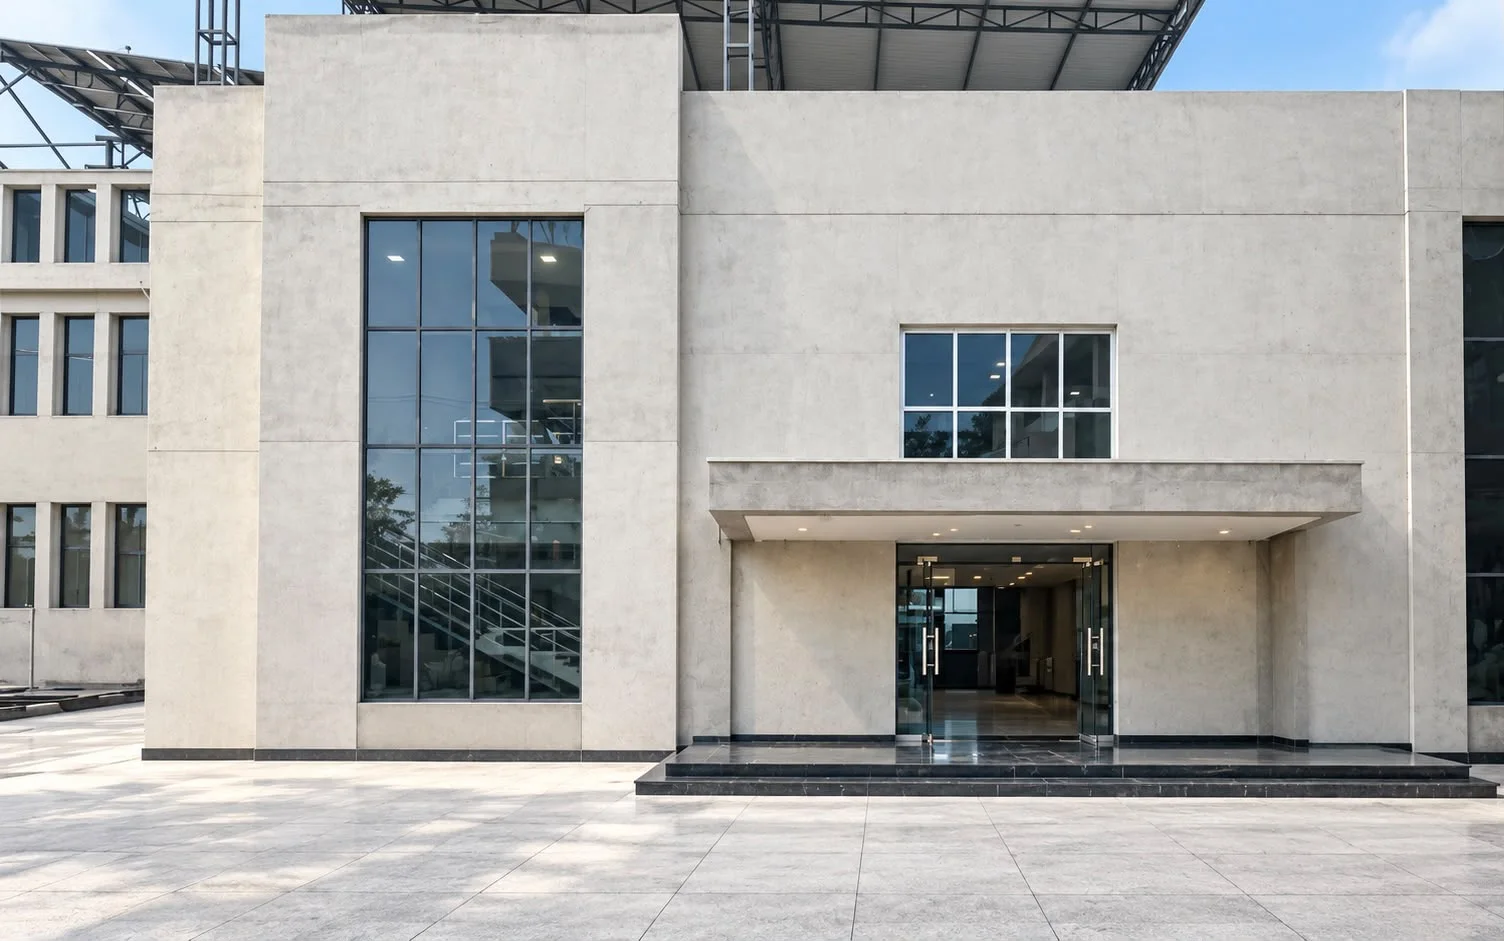
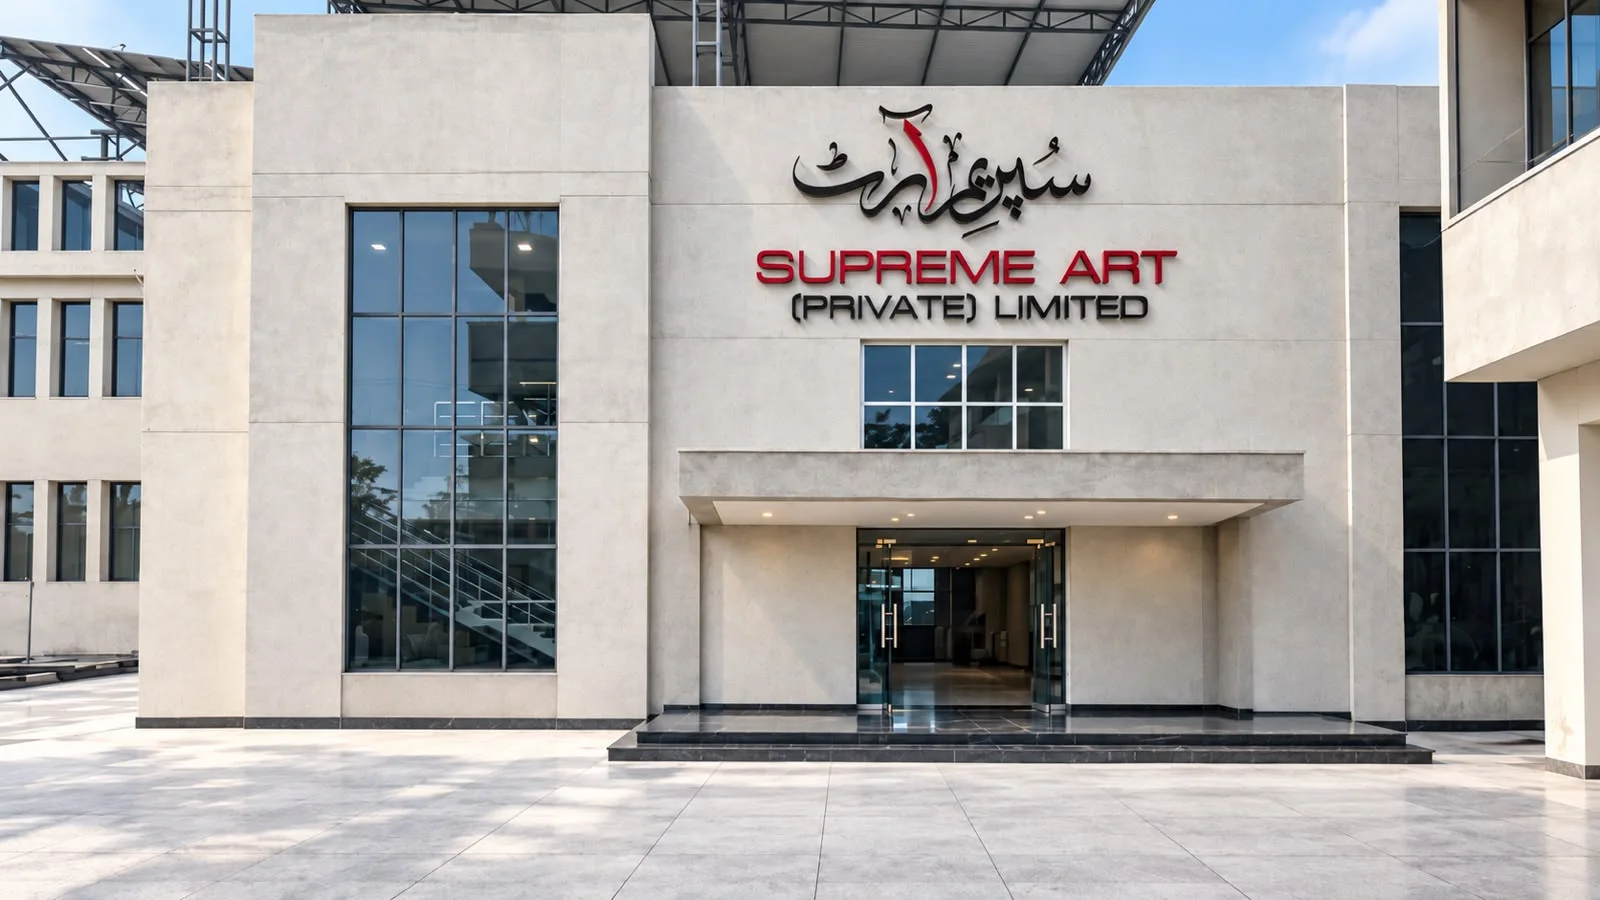
Home hero opens on the signed building: the name lifts off the facade, then the camera dives through the window beneath it; SM-74 hall photo for Who we are

diff --git a/static/script.js b/static/script.js
@@ -235,7 +235,9 @@ document.querySelectorAll('[data-count]').forEach((el) => countIO.observe(el));
   const scenes = [...story.querySelectorAll('[data-home-stage]')];
   const dots = [...story.querySelectorAll('.home-story__progress span')];
   const header = document.querySelector('.site-header');
+  const sticky = story.querySelector('.home-story__sticky');
   const building = story.querySelector('.home-story__building');
+  const logo = story.querySelector('.home-story__full-logo');
   const hall = story.querySelector('.home-story__shot--hall');
   const press = story.querySelector('.home-story__shot--press');
   const still = window.matchMedia('(prefers-reduced-motion: reduce)');
@@ -248,23 +250,48 @@ document.querySelectorAll('[data-count]').forEach((el) => countIO.observe(el));
   const span = (value, from, to) => clamp01((value - from) / (to - from));
   const ease = t => t < .5 ? 4 * t * t * t : 1 - Math.pow(-2 * t + 2, 3) / 2;
 
-  // Scroll timeline: hold on the building, fly through its door (.07–.44), hold in the press hall,
-  // then glide the camera from the front of the hall round to the Speedmaster's side (.56–.9) and hold.
+  // Where things are in the building photo, as fractions of it: the signage on the facade (and its width),
+  // and the window under it that the camera dives through. The photo is drawn to cover the frame, anchored
+  // on the window (object-position in styles.css), so these map to the screen the same way at any size.
+  const SIGN = { x: .6, y: .225, w: .27 };
+  const WINDOW = { x: .603, y: .437 };
+  let signStart = null;
+  function measureSign() {
+    const W = sticky.clientWidth, H = sticky.clientHeight;
+    const nw = building.naturalWidth || 1600, nh = building.naturalHeight || 900;
+    const s = Math.max(W / nw, H / nh), dw = nw * s, dh = nh * s;
+    const ox = (W - dw) * WINDOW.x, oy = (H - dh) * WINDOW.y;
+    logo.style.transform = 'none';
+    const r = logo.getBoundingClientRect(), b = sticky.getBoundingClientRect();
+    const cx = r.left - b.left + r.width / 2, cy = r.top - b.top + r.height / 2;
+    signStart = { dx: ox + SIGN.x * dw - cx, dy: oy + SIGN.y * dh - cy, k: (SIGN.w * dw) / r.width };
+  }
+
+  // Scroll timeline: hold on the building; the name and logo lift off the facade (.1–.34) and settle in
+  // front of it; the camera dives through the window under the signage (.4–.66) into the press hall; then it
+  // glides from the front of the hall round to the Speedmaster's side (.74–.96) and holds.
   // Only transform and opacity change, so the browser never re-rasterises the enlarged photos.
   function paint(p) {
-    const zoom = span(p, .07, .44);
-    building.style.transform = `scale(${Math.pow(7, ease(zoom))})`;
+    if (!signStart) measureSign();
+    const lift = ease(span(p, .1, .34));
+    const zoom = span(p, .4, .66);
+    const past = ease(span(zoom, 0, .4));
+    const k = (signStart.k + (1 - signStart.k) * lift) * (1 + .7 * past);
+    logo.style.transform = `translate(${signStart.dx * (1 - lift)}px, ${signStart.dy * (1 - lift)}px) scale(${k})`;
+    logo.style.opacity = String(Math.min(span(lift, 0, .25), 1 - past));
+
+    building.style.transform = `scale(${Math.pow(8, ease(zoom))})`;
     building.style.opacity = String(1 - span(zoom, .72, .98));
 
     const settle = ease(span(zoom, .6, 1));
-    const glide = ease(span(p, .56, .9));
+    const glide = ease(span(p, .74, .96));
     const swap = span(glide, .28, .72);
     hall.style.transform = `translateX(${-16 * glide}%) rotateY(${16 * glide}deg) scale(${1.08 + .22 * (1 - settle) + .3 * glide})`;
     hall.style.opacity = String(1 - swap);
     press.style.transform = `translateX(${16 * (1 - glide)}%) rotateY(${-16 * (1 - glide)}deg) scale(${1.02 + .34 * (1 - glide)})`;
     press.style.opacity = String(swap);
 
-    showStage(p < .24 ? 0 : p < .74 ? 1 : 2);
+    showStage(p < .5 ? 0 : p < .85 ? 1 : 2);
   }
 
   function frame() {
@@ -300,7 +327,8 @@ document.querySelectorAll('[data-count]').forEach((el) => countIO.observe(el));
   showStage(0);
   updateStory();
   window.addEventListener('scroll', requestUpdate, { passive: true });
-  window.addEventListener('resize', requestUpdate);
+  window.addEventListener('resize', () => { signStart = null; requestUpdate(); });
+  if (!building.complete) building.addEventListener('load', () => { signStart = null; requestUpdate(); });
 
 })();
 

diff --git a/static/styles.css b/static/styles.css
@@ -1663,15 +1663,15 @@ a { color: inherit; }
 .home-page .site-header .nav-toggle span { background: #fff; }
 .home-page .site-header:not(.is-over-hero) .nav-toggle span { background: var(--text); }
 .home-page main { margin-top: 0; }
-.home-story { position: relative; height: 460svh; background: #efebe4; }
+.home-story { position: relative; height: 560svh; background: #efebe4; }
 .home-story__sticky { position: sticky; top: 0; height: 100svh; min-height: 540px; overflow: hidden; color: #fff; }
 /* Fly-through: the building zooms into its entrance door, revealing the press hall; the camera then glides from
    the front of the hall round to the Speedmaster's side. script.js drives transform and opacity only, from scroll. */
 .home-story__media { position: absolute; inset: 0; overflow: hidden; background: #efebe4; perspective: 1400px; }
 .home-story__media img { position: absolute; inset: 0; width: 100%; height: 100%; object-fit: cover; object-position: 50% 50%; will-change: transform, opacity; backface-visibility: hidden; }
 .home-story__shot--press { opacity: 0; }
-/* object-position and transform-origin share the door's spot in the photo, so the door stays on screen at any viewport shape. */
-.home-story__building { z-index: 1; object-position: 66.7% 68.5%; transform-origin: 66.7% 68.5%; }
+/* object-position and transform-origin share the window under the signage, so it stays on screen at any viewport shape (script.js SIGN/WINDOW). */
+.home-story__building { z-index: 1; object-position: 60.3% 43.7%; transform-origin: 60.3% 43.7%; }
 .home-story__shade { position: absolute; z-index: 2; inset: 0; pointer-events: none; background: linear-gradient(180deg, rgba(0, 0, 0,.48), rgba(0, 0, 0,.12) 38%, rgba(0, 0, 0,.48)), linear-gradient(90deg, rgba(0, 0, 0,.44), transparent 55%, rgba(0, 0, 0,.12)); }
 .home-story__scenes { position: absolute; inset: 0; }
 .home-story__scene {
@@ -2625,7 +2625,7 @@ body .site-header .nav-links:not(.nav-flow-ready) > .has-dropdown > a.current {
 
 /* Transparent lettering keeps the glass glow reliable on mobile browsers. */
 .home-story__scene h1.home-story__full-logo {
-  position: relative; display: flex; flex-direction: column; align-items: center; gap: clamp(10px, 1.6vw, 22px);
+  position: relative; opacity: 0; transform-origin: 50% 50%; will-change: transform, opacity; display: flex; flex-direction: column; align-items: center; gap: clamp(10px, 1.6vw, 22px);
   width: min(1000px, 90vw); overflow: visible; flex-shrink: 0; white-space: normal;
 }
 /* The name keeps the logo's maroon, set on an ice-white glass plate so it reads over the concrete. */
